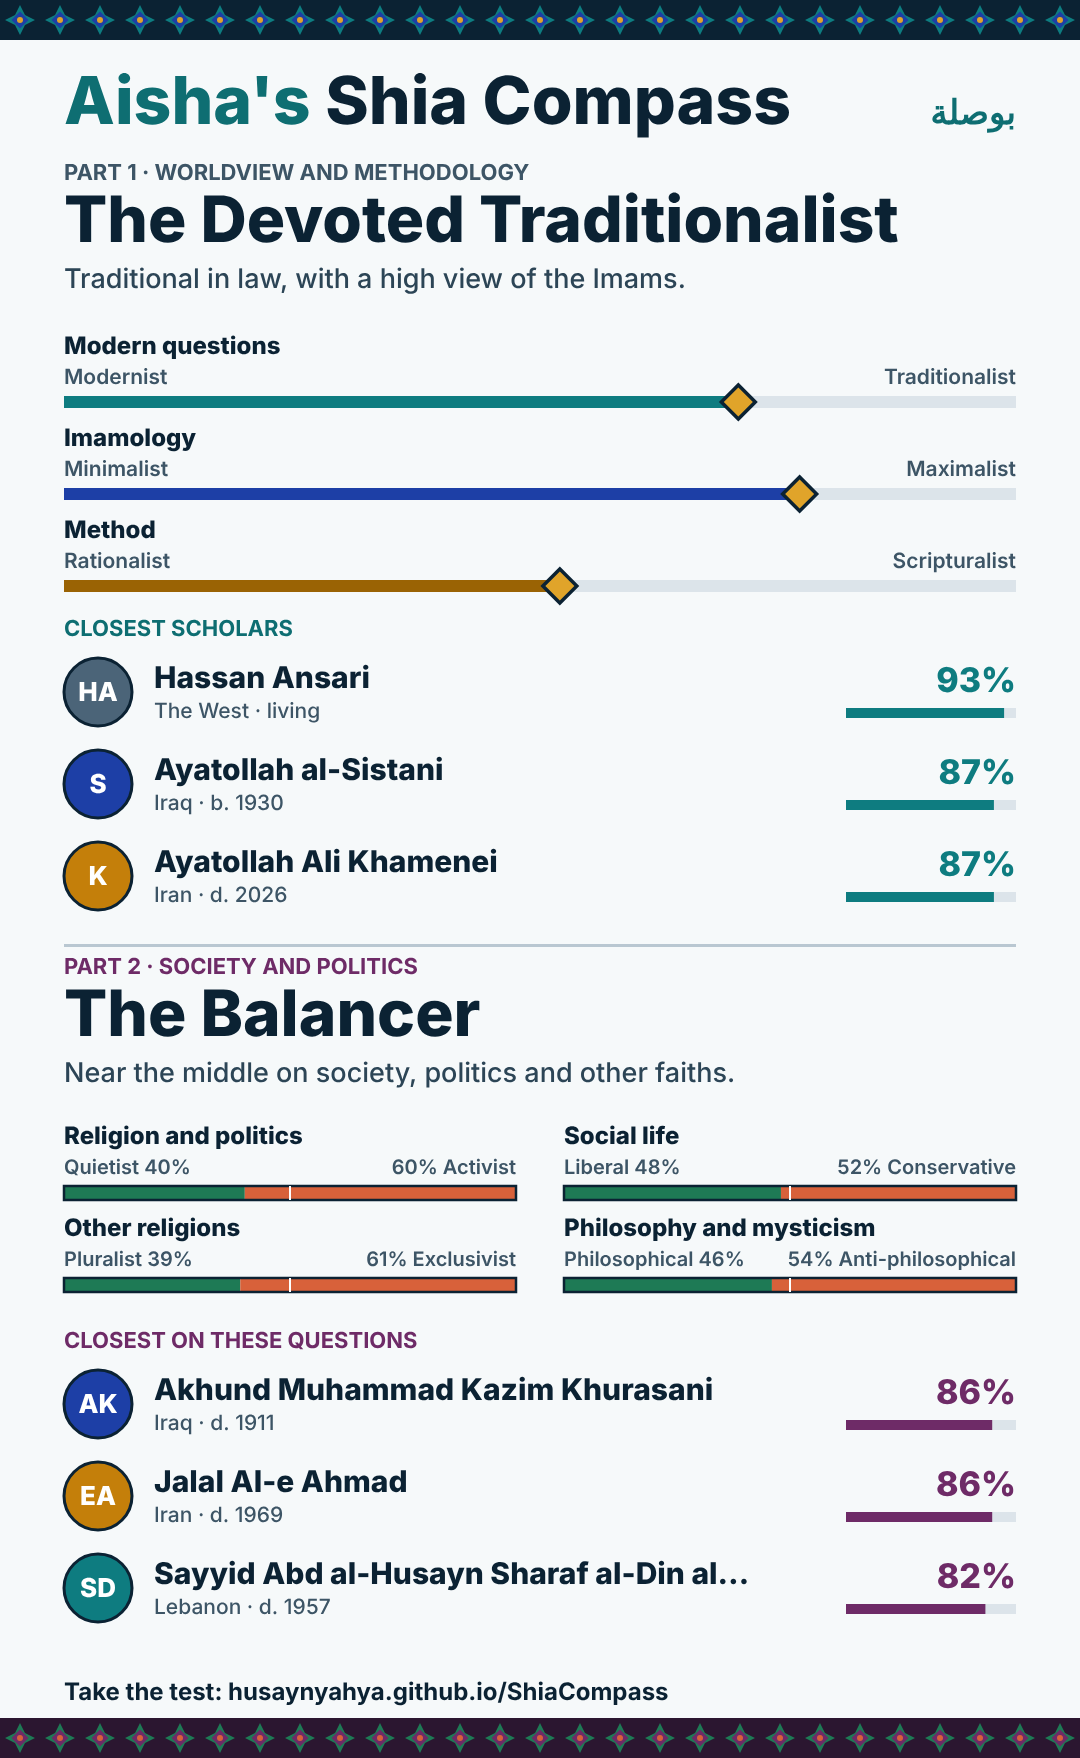
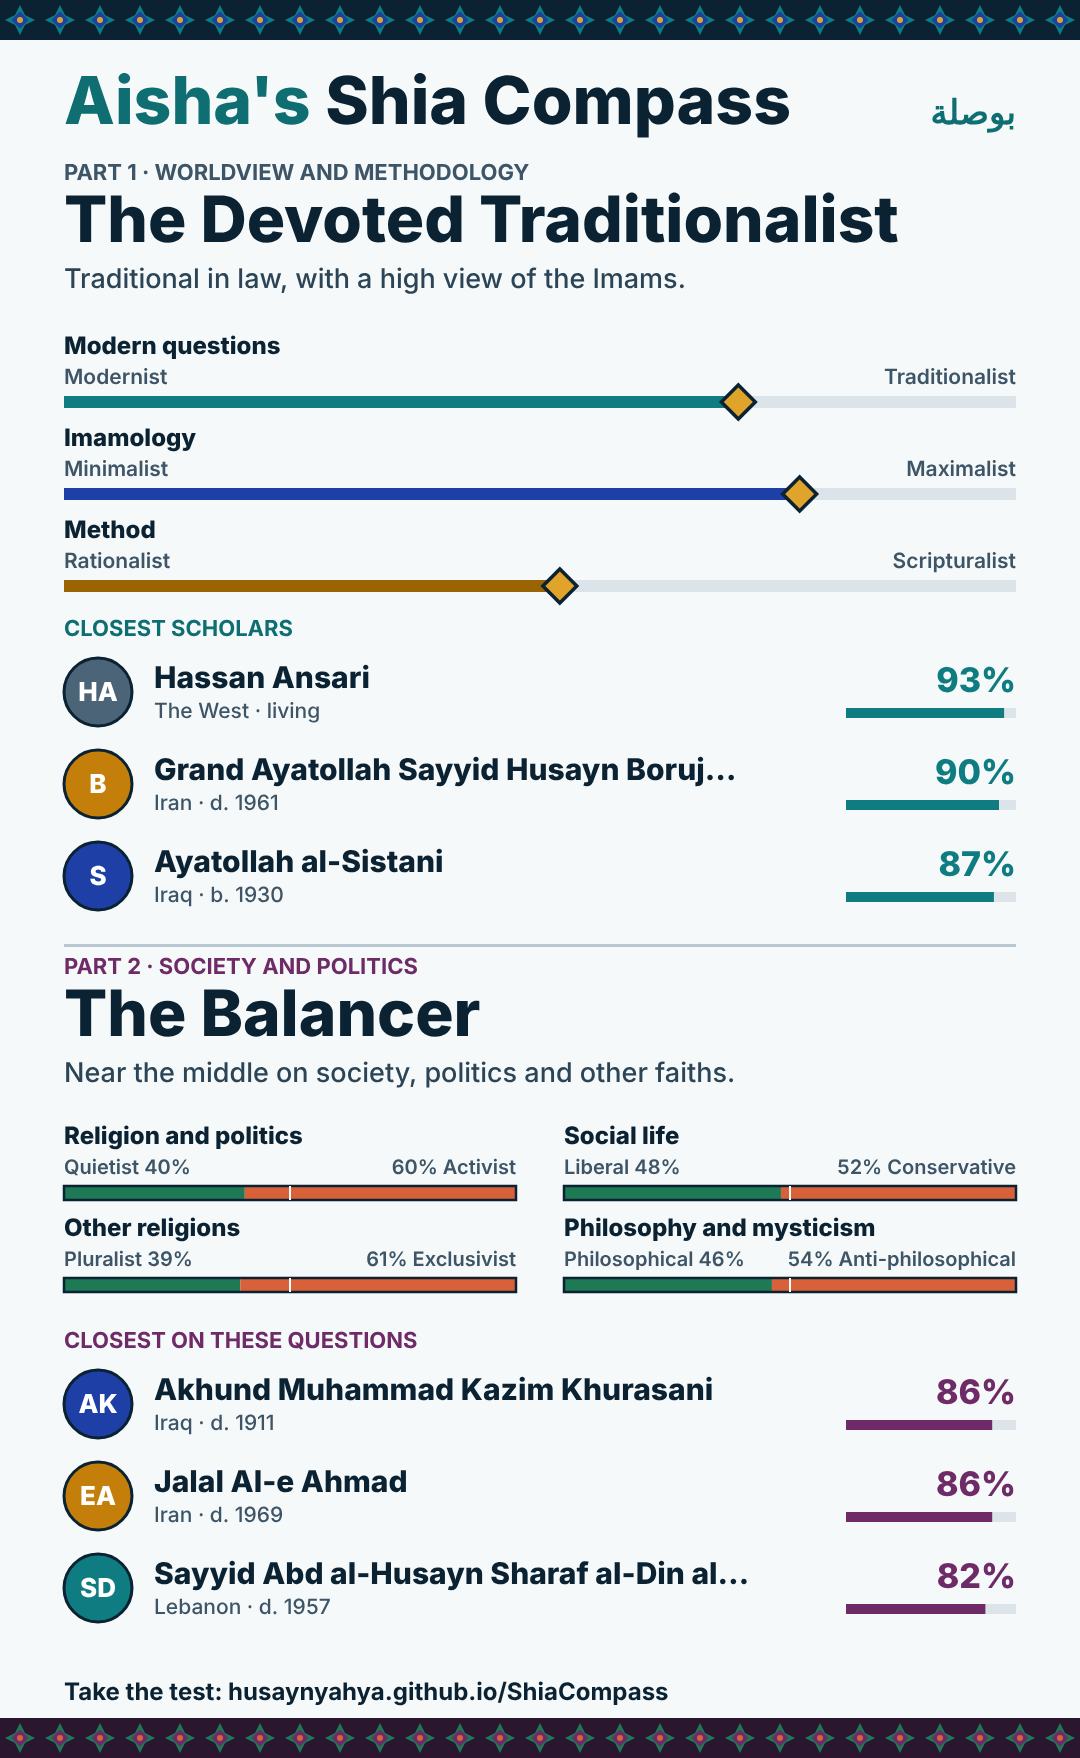
Compasses show only figures whose positions are documented
Society and politics: drop figures with no documented view on philosophy and
the rough placements (69 -> 35). Worldview and Methodology: drop the three
rough placements (82 -> 79). Figures documented on the other questions still
count in part 2 matches.

Claude-Session: https://claude.ai/code/session_01EpMsv99ZHQQoQ88sF9SGJg

diff --git a/index.html b/index.html
@@ -475,7 +475,7 @@ body.theme2 #tile .t1{fill:#1E7A55} body.theme2 #tile .t2{fill:#6E2B67} body.the
         <span class="eyebrow">Built on Zoheir Esmail's three spectrums</span>
         <h1>Take the <em>Shia Compass</em> Test</h1>
         <p class="sub">See where you align with traditional and contemporary scholars.</p>
-        <div class="facts"><span><b>2</b> parts, about <b>10–15</b> minutes each</span><span><b>21</b> axes</span><span><b>2</b> 3D compasses</span><span><b>104</b> scholars and figures, 10th century to today</span></div>
+        <div class="facts"><span><b>2</b> parts, about <b>10–15</b> minutes each</span><span><b>21</b> axes</span><span><b>2</b> 3D compasses</span><span><b>85</b> scholars and figures, 10th century to today</span></div>
         <div class="cta">
           <button class="btn" data-go="test">Start part 1 →</button>
           <button class="btn theme2" data-go="test2">Start part 2 →</button>
@@ -568,7 +568,7 @@ body.theme2 #tile .t1{fill:#1E7A55} body.theme2 #tile .t2{fill:#6E2B67} body.the
     <div class="method-note">
       <span class="eyebrow">How the placements were made</span>
       <p>The three spectrums come from Zoheir Esmail's post, which draws on Shaykh Dr Vinay Khetia's framing. The scholars' positions are approximate readings of what each is best known for in their published work and in the secondary literature; the post itself places no one. Every placement is contestable, since most scholars hold mixed positions and changed over a lifetime. A position says nothing about piety or correctness.</p>
-      <p>Part 2's axes are inspired by the 12Axes political test and adapted to questions Shia communities argue about. The society and politics compass places a wider cast than part 1: jurists and maraji', thinkers and academics, political and community leaders, and preachers. Each is placed only where their public positions are documented, and those placements are rougher than part 1's: they read public stances on politics, social life and philosophy, which few figures set out systematically. Where a figure has no documented view on philosophy, their dot is hollow and sits at the middle of that axis.</p>
+      <p>Part 2's axes are inspired by the 12Axes political test and adapted to questions Shia communities argue about. The society and politics compass places a wider cast than part 1: jurists and maraji', thinkers and academics, political and community leaders, and preachers. Each is placed only where their public positions are documented, and those placements are rougher than part 1's: they read public stances on politics, social life and philosophy, which few figures set out systematically. Only figures whose positions on all three of its questions are documented are shown on it. Figures with no documented view on philosophy still count in your closest matches, using the questions where their views are known.</p>
       <p>Your answers are stored only in your own browser on this device (its local storage), so the test resumes where you left off and your results are there when you come back. When you finish a part, your answers and scores are also recorded anonymously for research, as the notice before the test says (not for anyone who says they're under 18). A result code for each part lets you carry your answers to another device yourself. "Clear my data" on the insights page removes everything, including your recorded result.</p>
       <p>The test is a self-reflection tool, not a validated measure. The reading, activity and belief suggestions on the insights page describe tendencies among people with similar views, not predictions about you.</p>
     </div>
@@ -2042,16 +2042,16 @@ function stopHero(){ if(heroRaf){cancelAnimationFrame(heroRaf);heroRaf=null;} }
 const CS={yaw:-0.72,pitch:.46,K:262,CAM:10,cx:500,cy:420};
 const PRE={iso:[-0.72,.46],front:[0,0],side:[Math.PI/2,0],top:[0,-Math.PI/2]};
 const MODES={
- core:{keys:["m","i","e"], ax:k=>AX[k], list:()=>S1, pos:s=>s, me:()=>user,
+ core:{keys:["m","i","e"], ax:k=>AX[k], list:()=>S1M, pos:s=>s, me:()=>user,
    title:"Worldview and Methodology", lab:"Worldview and Methodology",
    desc:`Left to right is <b style="color:var(--text)">Modernist ↔ Traditionalist</b>, bottom to top is <b style="color:var(--text)">Minimalist ↔ Maximalist</b>, and front to back is <b style="color:var(--text)">Rationalist ↔ Scripturalist</b>. Click a gold axis label to see the method behind that viewpoint, or click a scholar to see why they sit there.`,
    legend:"Dot colour = region · dashed circle = mainstream Usuli centre (tap it to zoom in) · dotted saffron line = the deepest divide",
    chips:["Modern × Imamology","Method × Imamology","Modern × Method"],
    hint:{iso:"Drag to turn · arrow keys work too",front:"Front: modern questions across, Imamology up. Method is depth.",side:"Side: method across (rationalist left), Imamology up. Modern questions is depth.",top:"Top: modern questions across, method up (scripturalist top). Imamology is depth."}},
- soc:{keys:["c","w","p"], ax:k=>AX2[k], list:()=>ALLS.filter(s=>POL[s.id]), pos:s=>({m:POL[s.id].c,i:POL[s.id].w,e:POL[s.id].p===null?0:POL[s.id].p}), me:()=>user2&&{m:user2.c,i:user2.w,e:user2.p},
+ soc:{keys:["c","w","p"], ax:k=>AX2[k], list:()=>ALLS.filter(s=>POL[s.id]&&POL[s.id].p!==null&&!POL[s.id].lo), pos:s=>({m:POL[s.id].c,i:POL[s.id].w,e:POL[s.id].p}), me:()=>user2&&{m:user2.c,i:user2.w,e:user2.p},
    title:"Society and politics", lab:"Society and politics",
    desc:`The second compass. Left to right is <b style="color:var(--text)">Liberal ↔ Conservative</b> on social life, bottom to top is <b style="color:var(--text)">Quietist ↔ Activist</b> on religion and politics, and front to back is <b style="color:var(--text)">Philosophical ↔ Anti-philosophical</b> on philosophy and mysticism. Use Kind to show one group at a time. Placements are approximate readings of each figure's public positions.`,
-   legend:"Dot colour = region · hollow dot = no documented view on philosophy, so shown at the middle of that axis",
+   legend:"Dot colour = region · only figures whose positions on all three questions are documented are shown",
    chips:["Social life × Politics","Philosophy × Politics","Social life × Philosophy"],
    hint:{iso:"Drag to turn · arrow keys work too",front:"Front: social life across, religion and politics up. Philosophy is depth.",side:"Side: philosophy across (philosophical left), politics up. Social life is depth.",top:"Top: social life across, philosophy up (anti-philosophical top). Politics is depth."}}
 };
@@ -2165,7 +2165,7 @@ function renderDrawer(){
       ${bars(P,"var(--r-"+s.reg+")",ks,k=>AX2[k])}
       <span class="sec">Why here</span><p class="why">${P.why}</p>
       ${user2?`<span class="sec">Match with you on these questions</span><p>${match(dist2(s.id,user2))}%</p>`:""}
-      <p class="muted" style="font-size:13.5px">${P.t?KIND[P.t]+" · ":""}Placements on these axes are approximate readings of public positions.${P.p===null?" There's no documented view on philosophy and mysticism, so the hollow dot sits at the middle of that axis.":""}${P.lo?" Few of their public positions on these questions are documented, so this placement is rough, and they aren't counted in anyone's closest matches.":""}</p>`;
+      <p class="muted" style="font-size:13.5px">${P.t?KIND[P.t]+" · ":""}Placements on these axes are approximate readings of public positions.${P.p===null?" There's no documented view on philosophy and mysticism, so they aren't shown on the 3D compass; your match with them uses the other questions.":""}${P.lo?" Few of their public positions on these questions are documented, so they aren't shown on the compass or counted in anyone's closest matches.":""}</p>`;
     }
   } else if(drawer.type==="method"){const M=METHOD[drawer.a][drawer.p], opp=drawer.p==="neg"?"pos":"neg";
     h=`${back}
